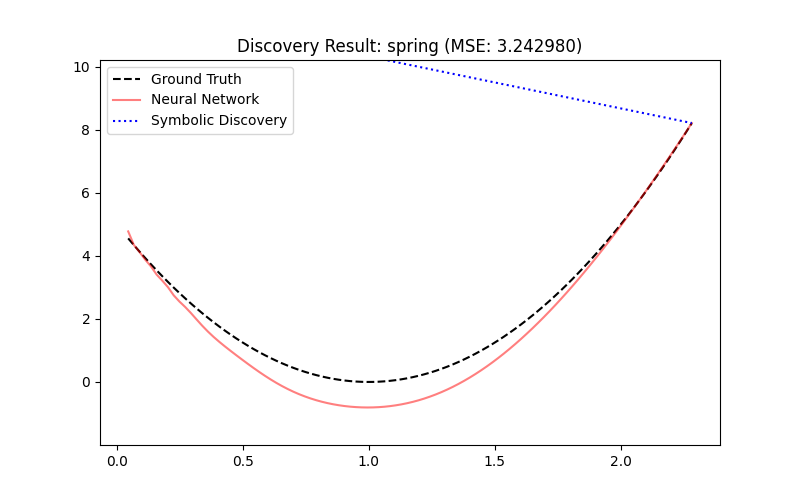
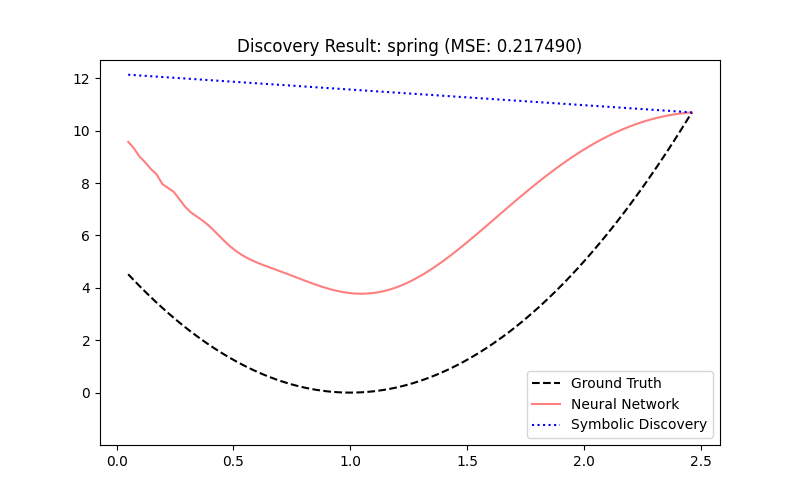
updated

diff --git a/discovery_core.py b/discovery_core.py
@@ -27,7 +27,7 @@ class PhysicsSim:
         self.n, self.mode, self.dt = n, mode, 0.01
         self.pos = torch.rand((n, 2), device=device, dtype=torch.float32) * 2.0 
         self.vel = torch.randn((n, 2), device=device, dtype=torch.float32) * 0.05
-        self.mask = ~torch.eye(n, device=device).bool()
+        self.mask = (~torch.eye(n, device=device).bool()).unsqueeze(-1)
     
     def get_ground_truth_potential(self, r):
         if self.mode == 'spring':
@@ -45,10 +45,9 @@ class PhysicsSim:
             f = -10.0 * (dist - 1.0) * (diff / dist_clip)
         else:
             d_inv = 1.0 / torch.clamp(dist, min=0.4, max=5.0)
-            f = 24.0 * (2 * d_inv**13 - d_inv**7) * (diff / dist_clip)
+            f = 24.0 * (2 * torch.pow(d_inv, 13) - torch.pow(d_inv, 7)) * (diff / dist_clip)
         
-        f = f * self.mask.unsqueeze(-1)
-        return torch.sum(torch.nan_to_num(f), dim=1)
+        return torch.sum(f * self.mask, dim=1)
 
     def generate(self, steps=1500):
         traj_p = torch.zeros((steps, self.n, 2), device=device)
@@ -57,12 +56,13 @@ class PhysicsSim:
         curr_pos = self.pos.clone()
         curr_vel = self.vel.clone()
         
-        for i in range(steps):
-            f = self.compute_forces(curr_pos)
-            curr_vel += f * self.dt
-            curr_pos += curr_vel * self.dt
-            traj_p[i] = curr_pos
-            traj_v[i] = curr_vel
+        with torch.no_grad():
+            for i in range(steps):
+                f = self.compute_forces(curr_pos)
+                curr_vel += f * self.dt
+                curr_pos += curr_vel * self.dt
+                traj_p[i] = curr_pos
+                traj_v[i] = curr_vel
             
         return traj_p, traj_v
 
@@ -71,18 +71,13 @@ class TrajectoryScaler:
         self.dt = dt
         self.p_mid = 0
         self.p_scale = 1
-        self.v_scale = 1
 
     def fit(self, p, v):
         self.p_mid = p.mean(dim=(0, 1), keepdim=True)
         self.p_scale = p.std().item() + 1e-6
-        self.v_scale = self.p_scale / self.dt
 
     def transform(self, p, v):
-        return (p - self.p_mid) / self.p_scale, v / self.v_scale
-
-    def inverse_transform_p(self, p_s):
-        return p_s * self.p_scale + self.p_mid
+        return (p - self.p_mid) / self.p_scale, v * (self.dt / self.p_scale)
 
 def validate_discovered_law(expr, mode, scaler, n_particles=16):
     print(f"\nValidating Discovered Law for {mode} (N={n_particles})...")
@@ -103,7 +98,7 @@ def validate_discovered_law(expr, mode, scaler, n_particles=16):
     a_factor = scaler.p_scale / (sim_gt.dt**2)
     p_scale = scaler.p_scale
     dt = sim_gt.dt
-    mask = ~torch.eye(n_particles, device=device).bool()
+    mask = (~torch.eye(n_particles, device=device).bool()).unsqueeze(-1)
     
     with torch.inference_mode():
         for i in range(200):
@@ -117,8 +112,7 @@ def validate_discovered_law(expr, mode, scaler, n_particles=16):
                 mag_scaled = torch.nan_to_num(mag_scaled, nan=0.0, posinf=10.0, neginf=-10.0)
                 
                 f_pair = (mag_scaled * a_factor) * (diff / dist_clip)
-                f_pair = f_pair * mask.unsqueeze(-1)
-                f = torch.sum(f_pair, dim=1)
+                f = torch.sum(f_pair * mask, dim=1)
             except Exception:
                 f = torch.zeros_like(curr_pos)
                 
@@ -171,26 +165,24 @@ def train_discovery(mode='lj'):
     scaler = TrajectoryScaler(dt=sim.dt)
     scaler.fit(p_traj, v_traj)
     p_s, v_s = scaler.transform(p_traj, v_traj)
-    p_s, v_s = p_s.to(device), v_s.to(device)
     
     model = DiscoveryNet().to(device)
-    opt = torch.optim.Adam(model.parameters(), lr=1e-3, weight_decay=1e-5)
+    opt = torch.optim.Adam(model.parameters(), lr=2e-3, weight_decay=1e-5)
     scheduler = torch.optim.lr_scheduler.CosineAnnealingLR(opt, T_max=1000)
     
-    # Pre-calculate consistency features
     r_large = torch.linspace(2.0, 5.0, 20, device=device).view(-1, 1)
     feat_large = torch.cat([r_large, torch.pow(r_large, -1), torch.pow(r_large, -2)], dim=-1)
     
     print(f"\n--- Training Discovery Pipeline: {mode} ---")
     
     for epoch in range(1001):
-        idxs = np.random.randint(0, len(p_s)-1, size=128)
+        idxs = np.random.randint(0, len(p_s)-1, size=64)
         
         p_batch = torch.cat([p_s[idxs], p_s[idxs+1]], dim=0)
         a_all, _ = model.get_forces(p_batch)
         
-        a = a_all[:128]
-        a_next = a_all[128:]
+        a = a_all[:64]
+        a_next = a_all[64:]
         
         q, p = p_s[idxs], v_s[idxs]
         q_next, p_next = p_s[idxs+1], v_s[idxs+1]
@@ -217,7 +209,6 @@ def train_discovery(mode='lj'):
             a_mag = a.abs().mean().item()
             print(f"Epoch {epoch:4d} | Loss: {loss.item():.4e} | Dyn: {l_dyn.item():.4e} | a_mag: {a_mag:.4e}")
 
-        # Early exit
         if l_dyn < 1e-8 and epoch > 600:
             print(f"Early exit at epoch {epoch}")
             break
@@ -228,10 +219,7 @@ def train_discovery(mode='lj'):
     print("\nDistilling Symbolic Force...")
     model.eval()
     
-    r_log = np.logspace(np.log10(0.05), np.log10(1.5), 400)
-    r_lin = np.linspace(1.5, 5.0, 400)
-    r_samples = np.concatenate([r_log, r_lin]).astype(np.float32).reshape(-1, 1)
-
+    r_samples = np.linspace(0.1, 5.0, 800).astype(np.float32).reshape(-1, 1)
     r_torch = torch.tensor(r_samples, dtype=torch.float32, device=device, requires_grad=True)
     feat = torch.cat([r_torch, torch.pow(r_torch, -1), torch.pow(r_torch, -2)], dim=-1)
     v_vals = model.V_pair(feat)
@@ -240,7 +228,7 @@ def train_discovery(mode='lj'):
     est = SymbolicRegressor(population_size=600, generations=20,
                             function_set=('add', 'sub', 'mul', 'div', 'neg', square),
                             max_samples=0.5, stopping_criteria=0.00001,
-                            n_jobs=-1, parsimony_coefficient=0.001, 
+                            n_jobs=-1, parsimony_coefficient=1e-5, 
                             verbose=0, random_state=42)
     est.fit(r_samples, force_vals)
     best_expr = str(est._program)
@@ -258,7 +246,7 @@ def train_discovery(mode='lj'):
         t_val = time.time()
         print(f"Validation Phase Duration: {t_val - t_symbolic:.2f}s")
         
-        r_plot = np.linspace(max(0.1, r_samples.min()), min(5.0, r_samples.max()), 100)
+        r_plot = np.linspace(0.1, 5.0, 100)
         r_plot_phys = r_plot * scaler.p_scale
         v_gt = np.array([sim.get_ground_truth_potential(r) for r in r_plot_phys])
         
